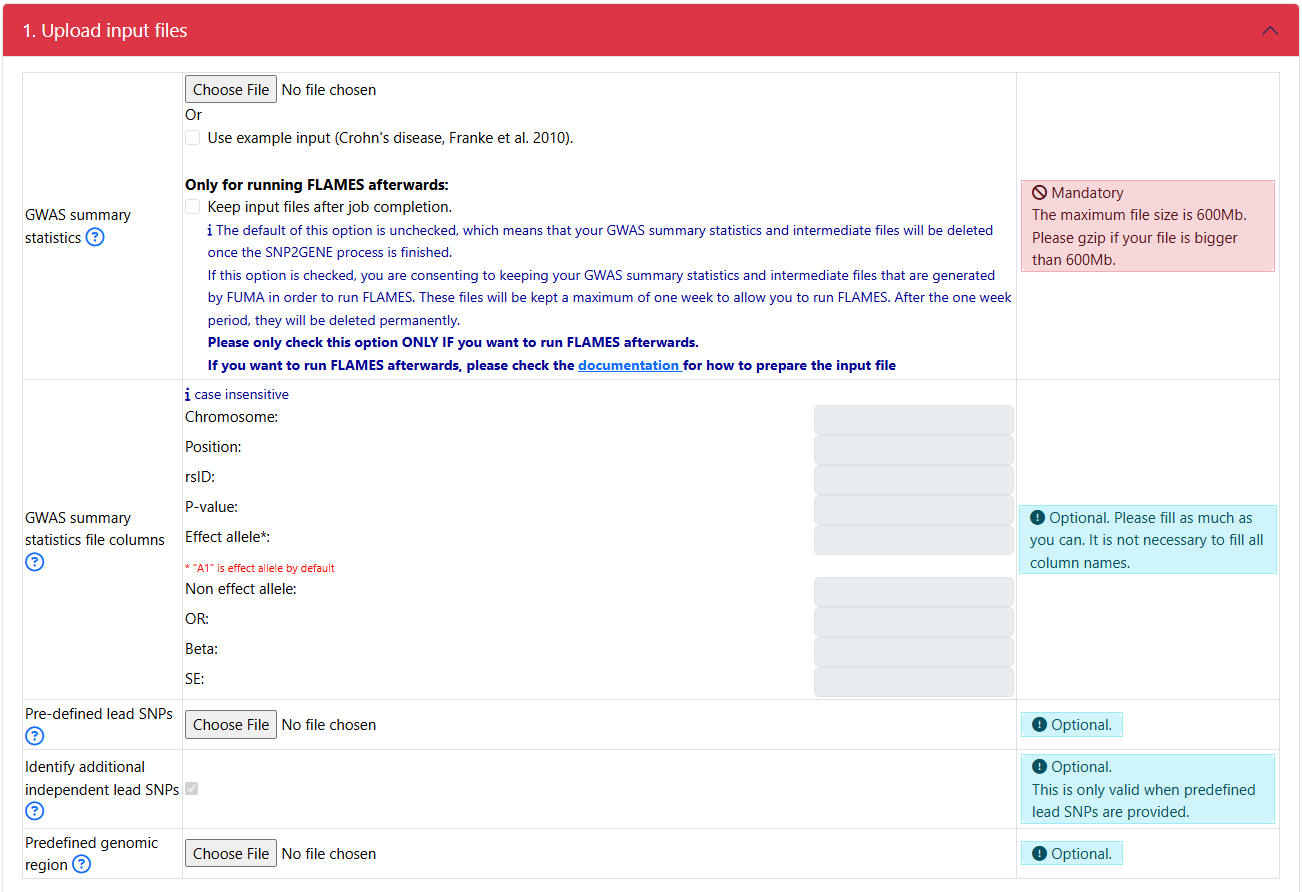
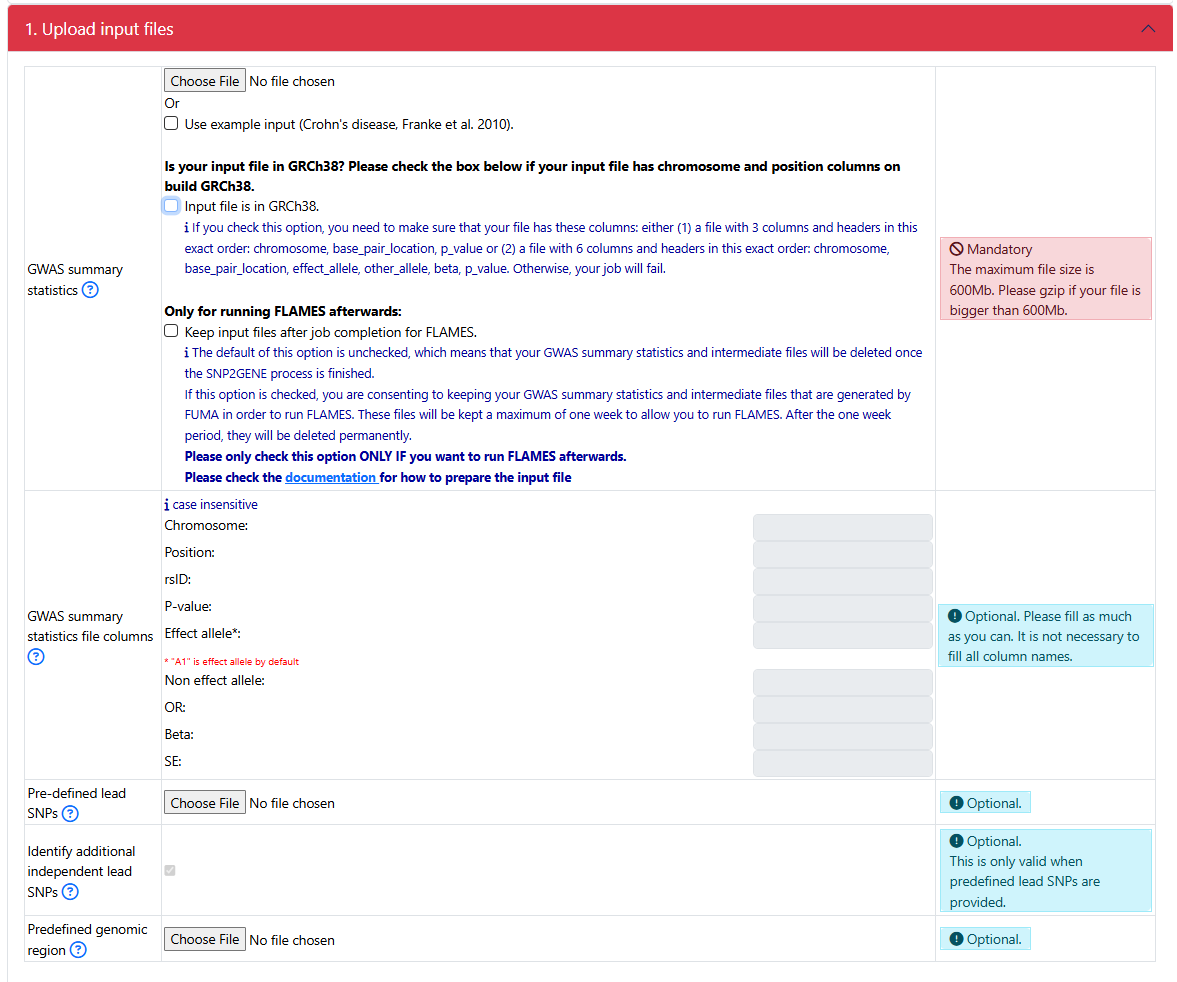
update for fuma v2.1.0

diff --git a/docs/source/snp2gene/prepare_input_files.rst b/docs/source/snp2gene/prepare_input_files.rst
@@ -1,52 +1,75 @@
 Prepare Input Files
 ===================
 
-.. _gwas_sumstat:
 1. GWAS summary statistics
 ++++++++++++++++++++++++++
 
-TL;DR
-^^^^^
+Guidelines:
+^^^^^^^^^^^
 
-- Prior to submitting your GWAS summary statistics (hereafter GWAS sumstat) to FUMA, to avoid error in file input format, follow these steps. 
+- Prior to submitting your GWAS summary statistics (hereafter GWAS sumstat) to FUMA SNP2GENE, to avoid error, follow these steps: 
 
-1. Open and view your GWAS sumstat in a bash terminal (or in some editor like notepad++)
+1. Open and view your GWAS sumstat in a bash terminal (or in some editor like notepad++) to get an idea of what columns are present, what the column names are, and what the values look like.
 
-2. Checklist: 
+2. Check the genome build of your GWAS sumstat. Is it in GRCh37 or GRCh38?
 
-- What columns are present in the GWAS sumstat file? 
-   - For a vanilla SNP2GENE job, the required information per rows are: variant id and p value. Variant id can be defined in many ways. You can have: 
-      - chr:pos (position is in build GRCh37)
-      - chr:pos:rsID (position is in build in GRCh37)
-      - rsID
-   - If your GWAS sumstat file does not have the required information, the job will fail. 
-   - Check :ref:`mandatory_columns` for specifics
+.. _gwas_sumstat_37:
+3. If your GWAS sumstat is in GRCh37: 
 
-- Note down the name of the columns
-   - What is the name of the column for p value? Is it pval, pvalues, p-values, or p or something else? Make a note of this
-   - Similarly, what is the name of the columns for chromosome, position, rsID, effect allele, non effect allele, or, beta, and se. Make a note of this
-   - The reason for this is that it is best practice to fill in the name of the columns from your gwas sumstat as much as possible, to ensure accuracy and performance: 
+- Is there a header? 
+- Is there a column for chromosome? What is the column name? 
+- Is there a column for position? What is the column name? 
+- Is there a column for rsID? What is the column name? 
+- Is there a column for p value? What is the column name? 
 
-   .. image:: snp2gene_colnames.png
-      :width: 650
+..warning::
+   Either **chromosome** and **position** OR **rsID** AND **p value** have to be present
 
-   - If you choose not to fill in the name of the columns, FUMA tries to detect this based on common naming convention. Check :ref:`headers` for specifics. 
+- Is there a column for effect allele? What is the column name? 
+- Is there a column for non effect allele? What is the column name? 
+- Is there a column for beta? What is the column name? 
+- Is there a column for odds ratio? What is the column name? 
+- Is there a column for standard error? What is the column name? 
 
-- If your gwas sumstat has chromosomme and position, **check which build, GRCh37 or GRCh38**
-   - Check :ref:`genome_build` if your gwas sumstat is in GRCh38
+- Fill in the name of the columns from your gwas sumstat as much as possible, to ensure accuracy and performance: 
 
-- Is there a value for sample size in your gwas sumstat? 
-   - If yes, you can put in the name of the sample size column in section 2. For example: 
-   .. image:: snp2gene_samplesize_name.png
-      :width: 650
+.. image:: snp2gene_colnames.png
+   :width: 650
+
+- If you choose not to fill in the name of the columns, FUMA tries to detect this based on common naming convention. Check :ref:`headers` for specifics. 
+
+.. _gwas_sumstat_38:
+4. If your GWAS sumstat is in GRCh38:
+- if your input GWAS sumstat file contains rsID, you can submit to FUMA by first removing the **chromosome** and **position** before submitting to FUMA. 
+   - in this case, FUMA will use the provided rsID to look up the chromosomes and positions using dbSNP version 146
 
    .. warning::
-      If you put in **NEFF** as the name of the column for sample size, and if this column does not exist, your job will fail.
+   IMPORTANT: make sure to completely remove the chromosome and position (in GRCh38) if present in your gwas sumstat.
+
+- if your input GWAS sumstat file does not contain rsID (and only chromosome and position in GRCh38), you can submit to FUMA if your file: 
+   - 1. Contain only 3 columns with the following column names in this order: **chromosome**, **base_pair_location**, **p_value**
+   - 2. Contain 6 columns with the follwing column names in this order: **chromosome**, **base_pair_location**, **effect_allele**, **other_allele**, **beta**, **p_value**
+
+   .. tip::
+      Use a scripting language such as R or Python to select the columns and rename the column names to be compatible
+
+   - Click on option to select GRCh38 in the job submission page: 
+
+   .. image:: submit_page_grch38.png
+      :width: 800
+
+5. Is there a value for sample size in your gwas sumstat? 
+- If yes, you can put in the name of the sample size column in section 2. For example: 
+.. image:: snp2gene_samplesize_name.png
+   :width: 650
+
+.. warning::
+   If you put in **NEFF** as the name of the column for sample size, and if this column does not exist, your job will fail.
 
 
-   - If no, you can put in the value (integer). For example: 
-   .. image:: snp2gene_samplesize_val.png
-      :width: 650
+- If no, you can put in the value (integer). For example: 
+.. image:: snp2gene_samplesize_val.png
+   :width: 650
 
 .. tip::
    1. Make sure that there is a header (column name) in the GWAS sumstat.
@@ -57,26 +80,19 @@ TL;DR
          - to fix this, one needs to save the data specifying `index=False` (the syntax depends on the specific language)
    2. rsID if exists has to be in rsID format and not chr:pos:a1:a2 format
    3. Use gzip software to compress with .gz extension or ZIP software with .zip extension. Make sure you haven't renamed the file manually. Use the proper compression software instead.
-   4. The chromosome has to be numbers between 1 and 23 or X. Any variant with a chromosome name that deviates from 1 to 23 or X will fail. 
-   5. Position values have to be integer (not in scientific notation)
-   6. If your file contains chromosome and position, these have to be in GRCh37 coordinates.
-   7. Make sure that there is no missing data for the columns that are mandatory such as p-values
-   8. If you specify the name of chromosome, position, etc… during submission, make sure that these names exist in your input file
-   9. Make sure that the delimiter is consistent. In addition, delimiter can be any of white space including single space, multiple space and tab. Because of this, each element including column names must not include any space
-   10. Check your file to make sure that there is no quotation around each value. It should be for example 1 instead of "1". This is usually caused when you save a file in R. To avoid this, one needs to set `quote=F` when saving a file in R. 
-      
-      - If your file is larger than 600Mb, gzip it
-   11. After gzipping, if your file is still larget than 600Mb, remove unnessary columns
-   
+
+      - After gzipping, if your file is still larget than 600Mb, remove unnessary columns
+   4. The chromosome has to be numbers between 1 and 23 or X. Any variant with a chromosome name that deviates from 1 to 23 or X will be removed. 
+   5. Position values have to be integer (not in scientific notation). Position values that are not an interger will be removed. 
+   6. Make sure that there is no missing data for the columns that are mandatory such as p-values
+   7. If you specify the name of chromosome, position, etc… during submission, make sure that these names exist in your input file
+   8. Make sure that the delimiter is consistent. In addition, delimiter can be any of white space including single space, multiple space and tab. Because of this, each element including column names must not include any space
+   9. Check your file to make sure that there is no quotation around each value. It should be for example 1 instead of "1". This is usually caused when you save a file in R. To avoid this, one needs to set `quote=F` when saving a file in R. 
 
 Overview
 ^^^^^^^^
 
 - GWAS summary statistics (GWAS sumstat) is a mandatory input of SNP2GENE module. 
-- FUMA accepts various types of format. For example, PLINK, SNPTEST, and METAL output formats can be used as is. 
-- Otherwise, the input GWAS sumstat has to have these columns (more information in the :ref:`mandatory_columns` section):
-   - chromosome, position (in hg19), and p values OR
-   - rsID and p values
 - Every row should contain information for one SNP. 
 - An input GWAS sumstat could contain only subset of SNPs (e.g. SNPs of interest for your study to annotate them), but in this case, results of MAGMA will not be relevant anymore.
 - Any variants that do not exist in the selected reference panel will not be included in any analyses. The 1000G reference panel is provided in the Download page (https://fuma.ctglab.nl/downloadPage) (scroll to the section Reference panel data).
@@ -93,20 +109,6 @@ Overview
    gzip {gwas/sum/stat}
 
 - Below are some more specific information to help with preparing the input GWAS sumstat
-
-.. _genome_build:
-Genome Build
-^^^^^^^^^^^^
-- The reference data used by FUMA is on build GRCh37 (hg19).
-- If your data is build GRCh37, you can upload your file.
-- If your data is build GRCh38, you can: 
-   - use UCSC liftover tool to lift over from GRCh38 to GRCh37, OR: 
-   - if your input GWAS sumstat file contains rsID, you can still submit to FUMA by first make sure that **chromosome and position columns are not present**. 
-      - in this case, FUMA will use the provided rsID to look up the chromosomes and positions using dbSNP
-
-      .. warning::
-      IMPORTANT: make sure to completely remove the chromosome and position (in GRCh38) if present in your gwas sumstat 
-
 
 .. _mandatory_columns:
 Mandatory columns
@@ -134,6 +136,9 @@ Headers
 - A header is mandatory
 - Users have an option to specify the column names of the input GWAS sumstat: 
 
+..warning::
+   Only fill in this section if your GWAS sumstat is in GRCh37.
+
 .. image:: user_input_colnames.png
    :width: 400
 
@@ -141,7 +146,7 @@ Headers
 - When users do not specify the column names of the input GWAS sumstat, FUMA automatically detects the columns based on the following headers (case insensitive):
    - If a column has names **snp**, **snpid**, or **markername**, it will be detected as column for rsID
    - If a column has names **chr**, **chromosome**, or **chrom**, it will be detected as column for chromosome
-   - If a column has names **bp**, **pos**, or **position**, it will be detected as column for position (basepair)
+   - If a column has names **bp**, **pos**, or **position** or **base_pair_position**, it will be detected as column for position (basepair)
    - If a column has names **A1**, **effect_allele**, **allele1**, or **alleleB**: it will be detected as the effect allele 
    - If a column has names **A2**, **non_effect_allele**, **allele2**, or **alleleA**: it will be detected as non-effect-allele
    - If a column has names **P**, **pvalue**, **p-value**, **p_value**, or **pval**: it will be detected as p values

diff --git a/docs/source/snp2gene/quick_start.rst b/docs/source/snp2gene/quick_start.rst
@@ -14,11 +14,14 @@ To run a successful SNP2GENE job on FUMA, follow the following steps:
 .. image:: part1_upload_input_file.png
    :width: 800
 
+If your GWAS sumstat is in GRCh37
+^^^^^^^^^^^^^^^^^^^^^^^^^^^^^^^^^
+
 Upload your GWAS summary statistics
 ~~~~~~~~~~~~~~~~~~~~~~~~~~~~~~~~~~~
 
 - Click on the `Choose file` button to upload a GWAS summary statistics
-    - check :ref:`gwas_sumstat` section on how to corrently prepare the input file
+    - check :ref:`gwas_sumstat_37` section on how to correctly prepare the input file
 - Starting from FUMA v2.0.0, you can check the button `Keep input files after job completion.` in order to run FLAMES after a successful completion of the SNP2GENE job. 
     - The default is unchecked, which means that your uploaded input GWAS summary statistics and intermediate files producded by FUMA are removed from the FUMA server as soon as the job finishes. 
     - If this option is checked, your uploaded input GWAS summary statistics and intermediate files that are needed to run FUMA are kept for 7 days. After 7 days, they are deleted from the FUMA server. 
@@ -45,8 +48,24 @@ Specify the column names
     .. image:: example_input_parameters.png
         :width: 600
 
+If your GWAS sumstat is in GRCh38
+^^^^^^^^^^^^^^^^^^^^^^^^^^^^^^^^^
+
+Upload your GWAS summary statistics
+~~~~~~~~~~~~~~~~~~~~~~~~~~~~~~~~~~~
+
+- Click on the `Choose file` button to upload a GWAS summary statistics
+    - check :ref:`gwas_sumstat_38` section on how to corrently prepare the input file
+
+- Click on the `Input file is in GRCh38.` button to indicate that your file is in GRCh38
+
+Specify the column names
+~~~~~~~~~~~~~~~~~~~~~~~~
+
+- DO NOT FILL IN THIS PART
+
 The rest of part 1
-~~~~~~~~~~~~~~~~~~
+^^^^^^^^^^^^^^^^^^
 - For a simple SNP2GENE job, the rest of the options can be left as default. 
 
 2. Parameters for lead SNPs and candidate SNPs identification
@@ -189,3 +208,99 @@ The rest of part 1
 ---------
 
 - After all the mandatory information is filled/uploaded, you can click on the `Submit Job` button. 
+
+9. View log file
+----------------
+
+- You can download the log file of each job (only for jobs created after FUMA version 2.1.0)
+- Note that the log file currently logs the processing of the GWAS sumstat file. Additional log will be added in future release. 
+
+.. image:: snp2gene_logs.png
+    :width: 800
+
+10. Examples of GWAS sumstat for SNP2GENE
+-----------------------------------------
+
+GRCh37
+^^^^^^
+
+Example 1. All 6 columns are present
+~~~~~~~~~~~~~~~~~~~~~~~~~~~~~~~~~~~~
+- 6 columns are present: chromosome, position, effect allele, non effect allele, rsID, and pval
+
+.. code-block:: bash
+    CHROM   ID      POS     A1      A2      BETA    PVAL
+    21      rs148082907     16647205        T       C       -0.0638027918527484     0.06351
+    21      rs2823892       17948888        T       A       0.0125015292229252      0.5092
+    21      rs76775116      15453489        G       A       0.0176041339483571      0.5157
+    21      rs2747364       14769046        A       G       -0.00359645951440505    0.7272
+    21      rs2823451       17060281        T       A       -0.0139975096438537     0.1752
+
+- Specify the names of the columns 
+
+.. image:: example_6cols_names.png
+    :width: 800
+
+Example 2. Only rsID is missing
+~~~~~~~~~~~~~~~~~~~~~~~~~~~~~~~
+
+.. code-block:: bash
+    CHROM   POS     A1      A2      BETA    PVAL
+    21      16647205        T       C       -0.0638027918527484     0.06351
+    21      17948888        T       A       0.0125015292229252      0.5092
+    21      15453489        G       A       0.0176041339483571      0.5157
+    21      14769046        A       G       -0.00359645951440505    0.7272
+    21      17060281        T       A       -0.0139975096438537     0.1752
+
+- FUMA looks up rsID from the reference panel for the select population. If rsID is not found, ID is chr:pos:A1:A2
+
+Example 3. When either effect allele or non effect allele or both are missing
+~~~~~~~~~~~~~~~~~~~~~~~~~~~~~~~~~~~~~~~~~~~~~~~~~~~~~~~~~~~~~~~~~~~~~~~~~~~~~
+
+.. code-block:: bash
+    CHROM   POS     A1      BETA    PVAL
+    21      16647205        T       -0.0638027918527484     0.06351
+    21      17948888        T       0.0125015292229252      0.5092
+    21      15453489        G       0.0176041339483571      0.5157
+    21      14769046        A       -0.00359645951440505    0.7272
+    21      17060281        T       -0.0139975096438537     0.1752
+
+- FUMA looks up rsID from the reference panel for the select population. Check the log files to see which variants are dropped. 
+
+Example 3. Chromosome and Position are missing
+~~~~~~~~~~~~~~~~~~~~~~~~~~~~~~~~~~~~~~~~~~~~~~
+
+.. code-block:: bash
+    ID      BETA    PVAL
+    rs148082907     -0.0638027918527484     0.06351
+    rs2823892       0.0125015292229252      0.5092
+    rs76775116      0.0176041339483571      0.5157
+    rs2747364       -0.00359645951440505    0.7272
+    rs2823451       -0.0139975096438537     0.1752
+
+- FUMA looks up chromosome, position, effect allele, and non effect allele if needed from dbSNP version 146. 
+
+GRCh38
+^^^^^^
+
+Example 1. 3 colums
+~~~~~~~~~~~~~~~~~~~
+
+.. code-block:: bash
+    chromosome      base_pair_location      p_value
+    21      13086116        0.3811
+    21      13143418        0.3467
+    21      13226318        0.1995
+    21      13226514        0.198
+    21      13228955        0.1008
+
+Example 2. 6 colums
+~~~~~~~~~~~~~~~~~~~
+
+.. code-block:: bash
+    chromosome      base_pair_location      effect_allele   other_allele    beta    p_value
+    21      13086116        T       C       -0.1844 0.3811
+    21      13143418        T       C       0.1984  0.3467
+    21      13226318        T       G       0.203   0.1995
+    21      13226514        A       G       0.2038  0.198
+    21      13228955        T       TG      -0.4733 0.1008